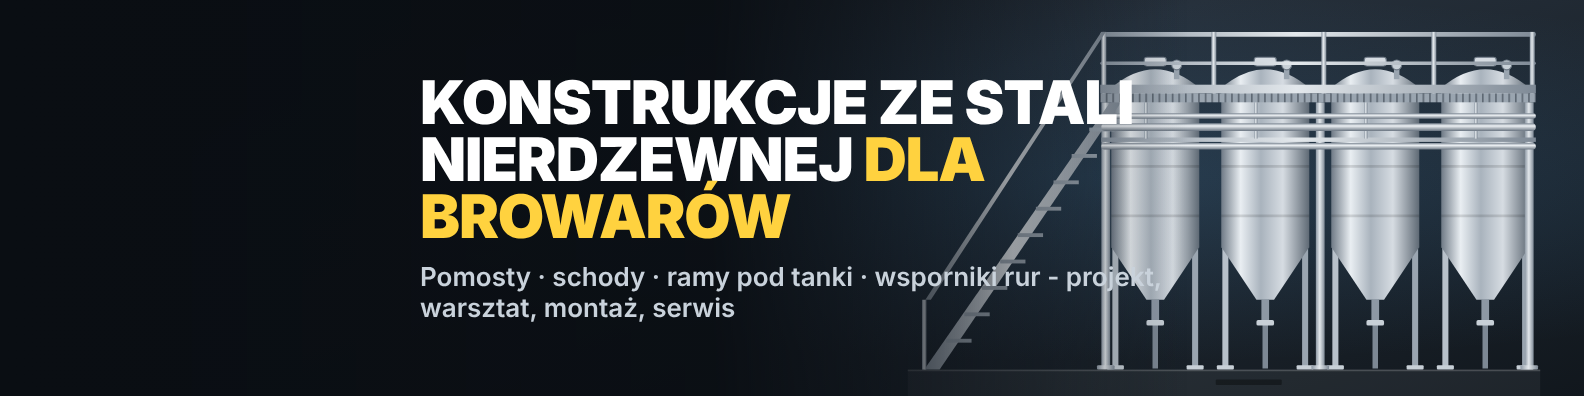
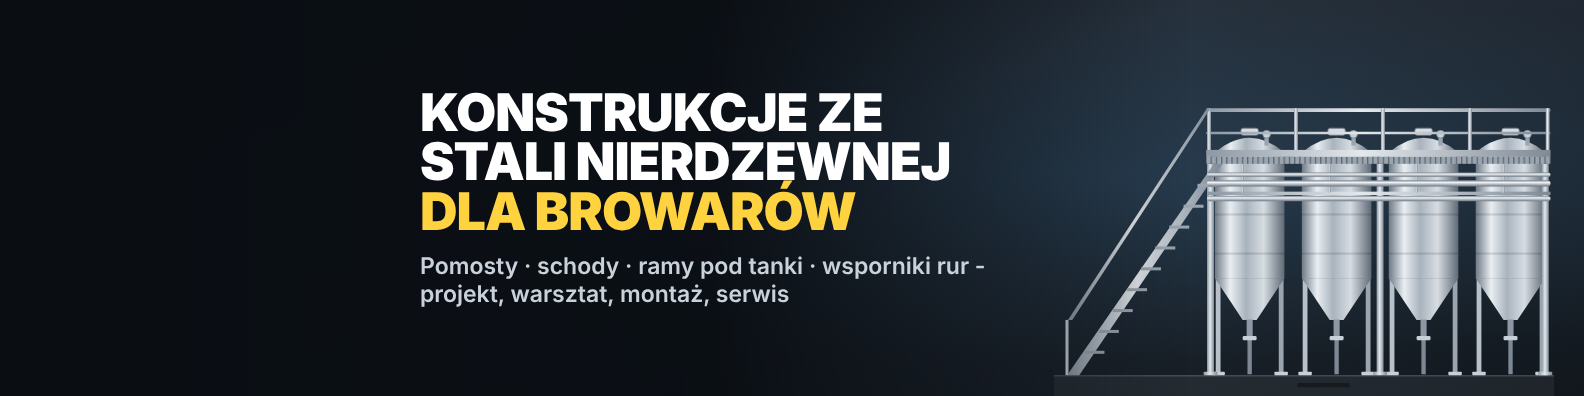
Projekt studia: konstrukcje wsporcze dla browarów (w toku)
Claude-Session: https://claude.ai/code/session_014EeueTQJsRGAZPZSC4kRcT

Changed region(s): [[0.2475, 0.0606, 0.9899, 0.9697]]

diff --git a/studio/projekty/2026-11-14-konstrukcje-wsporcze-browary/03-grafiki/grafiki.html b/studio/projekty/2026-11-14-konstrukcje-wsporcze-browary/03-grafiki/grafiki.html
@@ -115,7 +115,7 @@
   .stale li::before { content: "–"; position: absolute; left: 0; }
 
   /* detale higieniczne (slajd 04) */
-  .detale { position: absolute; left: 80px; right: 80px; top: 760px; display: grid; gap: 26px; }
+  .detale { position: absolute; left: 80px; right: 80px; top: 560px; display: grid; gap: 26px; }
   .detale .w { display: grid; grid-template-columns: 1fr 1fr; gap: 20px; }
   .detale .p { border-radius: 18px; padding: 22px; display: flex; align-items: center; gap: 22px; background: rgba(255,255,255,.06); border: 2px solid rgba(255,255,255,.12); }
   .detale .p.zle { border-color: rgba(198,47,38,.8); }
@@ -139,18 +139,18 @@
 
   /* ---------- Baner LinkedIn 1584x396 ---------- */
   .li { width: 1584px; height: 396px; }
-  .li .scena { right: -20px; bottom: 0; width: 760px; height: 396px; }
+  .li .scena { right: 30px; bottom: 0; width: 500px; height: 340px; }
   .li .cien { background: linear-gradient(90deg, rgba(10,14,19,1) 0%, rgba(10,14,19,.95) 45%, rgba(10,14,19,0) 75%); }
-  .li .tresc { position: absolute; left: 420px; top: 0; bottom: 0; width: 760px; display: flex; flex-direction: column; justify-content: center; gap: 16px; }
-  .li .naglowek { font-size: 60px; }
-  .li .pod { font-size: 26px; color: #c9d2db; font-weight: 600; }
+  .li .tresc { position: absolute; left: 420px; top: 0; bottom: 0; width: 600px; display: flex; flex-direction: column; justify-content: center; gap: 16px; }
+  .li .naglowek { font-size: 52px; }
+  .li .pod { font-size: 23px; color: #c9d2db; font-weight: 600; }
   .li .logo { left: 60px; top: 50%; transform: translateY(-50%); height: 90px; display: none; }
 
   /* ---------- OG 1200x630 ---------- */
   .og { width: 1200px; height: 630px; background: var(--jasny); color: var(--tekst); }
-  .og .scena { right: -30px; bottom: 24px; width: 640px; height: 420px; }
-  .og .tresc { position: absolute; left: 70px; top: 0; bottom: 24px; width: 620px; display: flex; flex-direction: column; justify-content: center; gap: 24px; }
-  .og .naglowek { font-size: 72px; text-transform: none; letter-spacing: -.03em; }
+  .og .scena { right: -90px; bottom: 24px; width: 640px; height: 420px; }
+  .og .tresc { position: absolute; left: 70px; top: 0; bottom: 24px; width: 560px; display: flex; flex-direction: column; justify-content: center; gap: 24px; }
+  .og .naglowek { font-size: 64px; text-transform: none; letter-spacing: -.03em; }
   .og .naglowek em { color: var(--akcent); }
   .og .pod { font-size: 28px; color: var(--tekst-2); font-weight: 600; }
   .og .logo { right: 50px; top: 40px; height: 70px; padding: 0; background: none; }
@@ -479,7 +479,7 @@
   <div class="krok">KROK 4</div>
   <div class="gora"><h1 class="naglowek">Miejsce na <em>kolejny tank</em></h1>
     <p class="pod">Dostawisz tank - dołożymy moduł. Bez przerabiania tego, co stoi.</p></div>
-  <svg class="scena" style="--t4:0; --duch:1" role="img" aria-label="Rysunek: pomost z miejscem na kolejny tank"><use href="#tankownia"/></svg>
+  <svg class="scena" style="--t4:0; --duch:1; left:10px; width:1020px" role="img" aria-label="Rysunek: pomost z miejscem na kolejny tank"><use href="#tankownia"/></svg>
   <div class="logo"><img src="../../../../img/logo.png" alt="Instal-tig"></div>
 </section>
 
